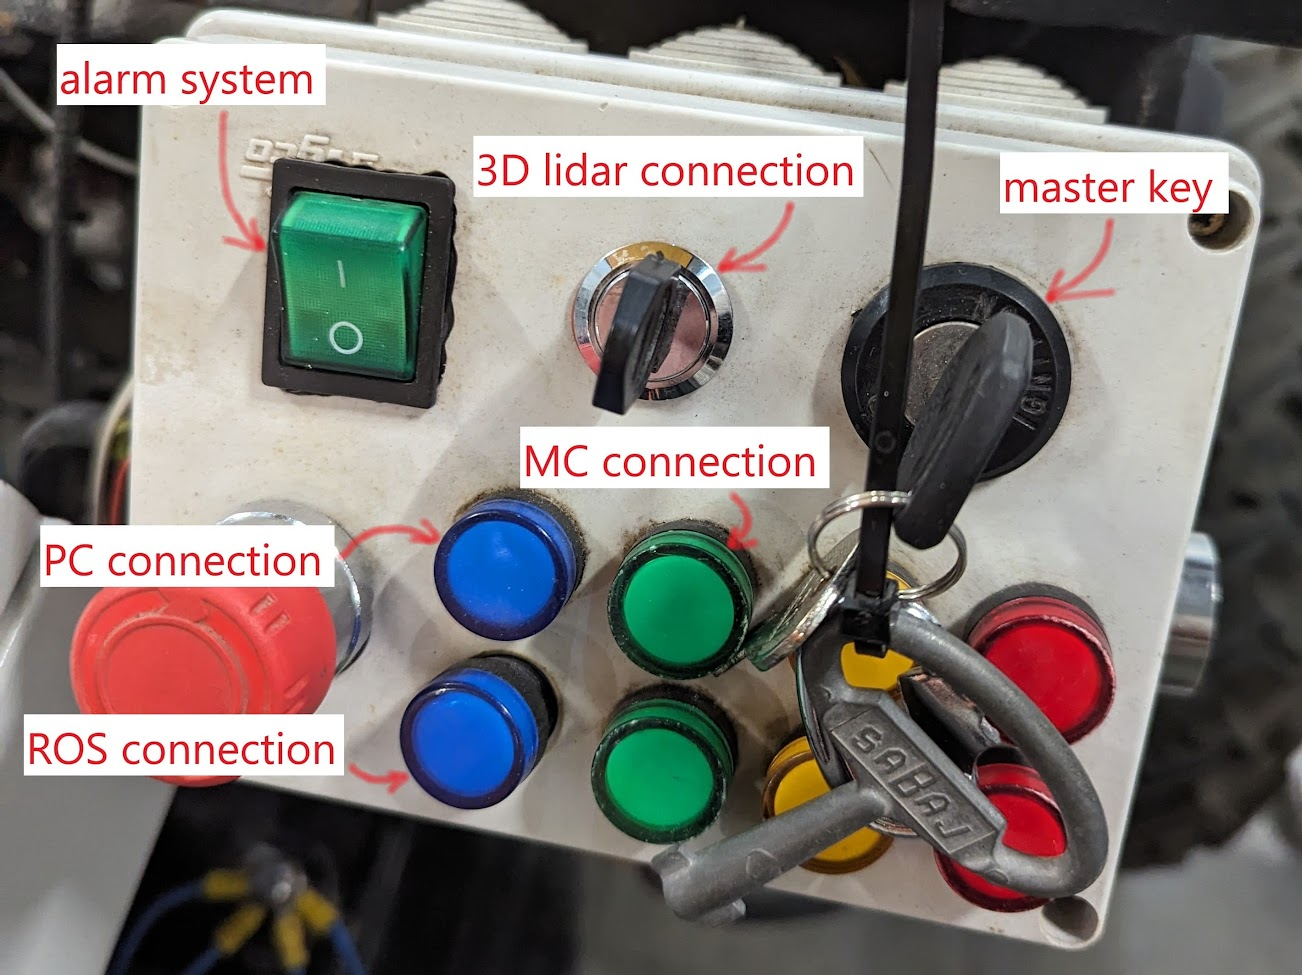
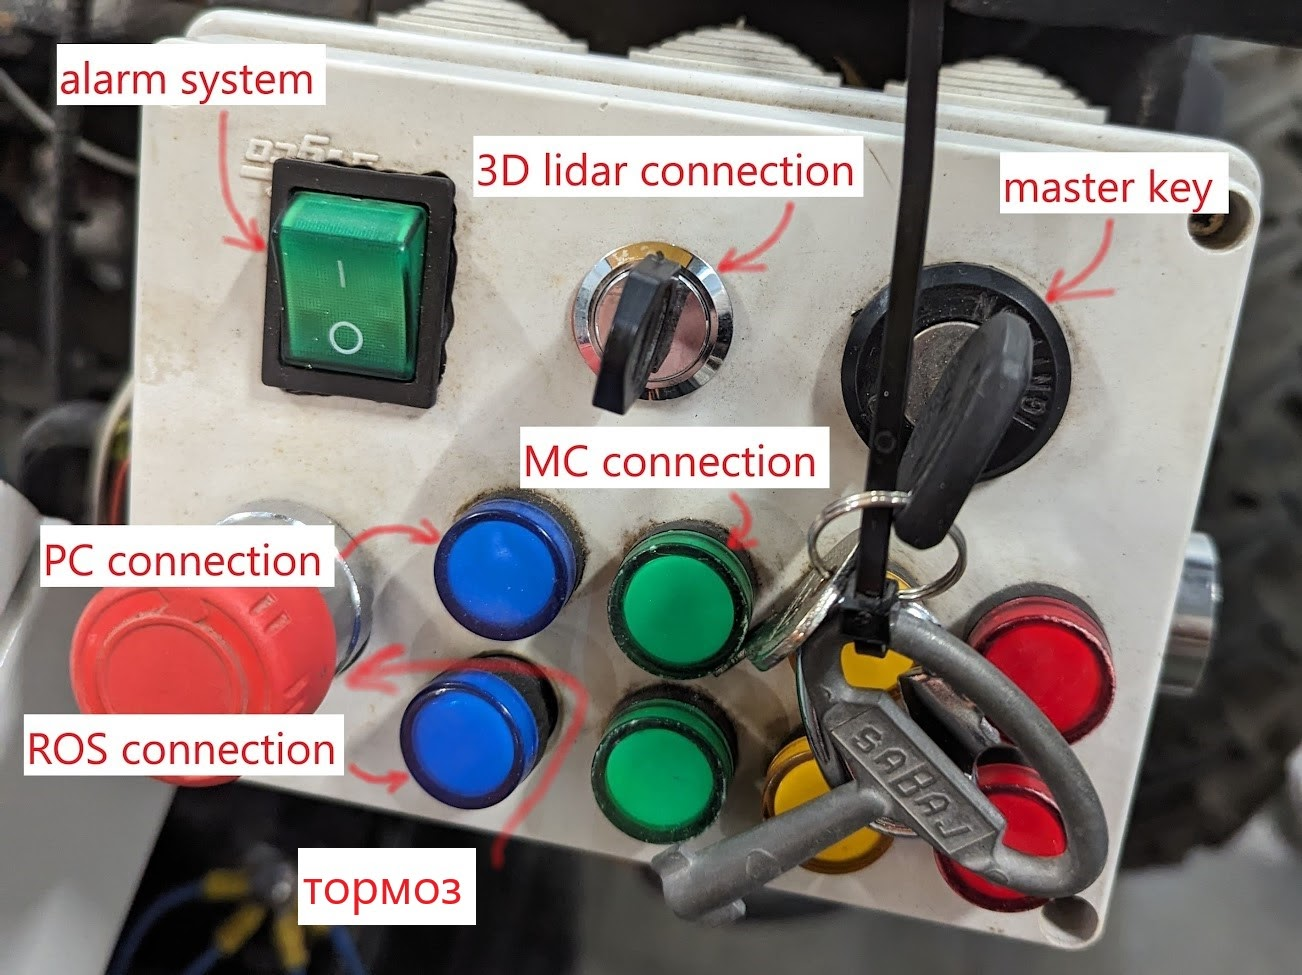
description of the big red brake buttons

diff --git a/docs/robot_usage.md b/docs/robot_usage.md
@@ -16,10 +16,14 @@
 
 ## 2. Подготовка к катанию
 
-1. Повернуть правый ключ на одно положение по часовой стрелке (должна загореться зеленая лампа MC connection) + привести маленький ключ в вертикальное положение, тем самым включив 3D-лидар
+1. Повернуть правый ключ на одно положение по часовой стрелке (должна загореться зеленая лампа MC connection); отжать две красные кнопки тормоза (одна на панели, вторая на крышке компьютера); привести маленький ключ в вертикальное положение, тем самым включив 3D-лидар
 
     <p align=center>
         <img src="guide/indicators_key.jpg" width="900/">
+    </p>
+
+    <p align=center>
+        <img src="guide/brake_button.jpg" width="900/">
     </p>
 
 2. Проверить работают ли тормоза (при отжатии кнопки остановки должен быть слышан характерный стук)
